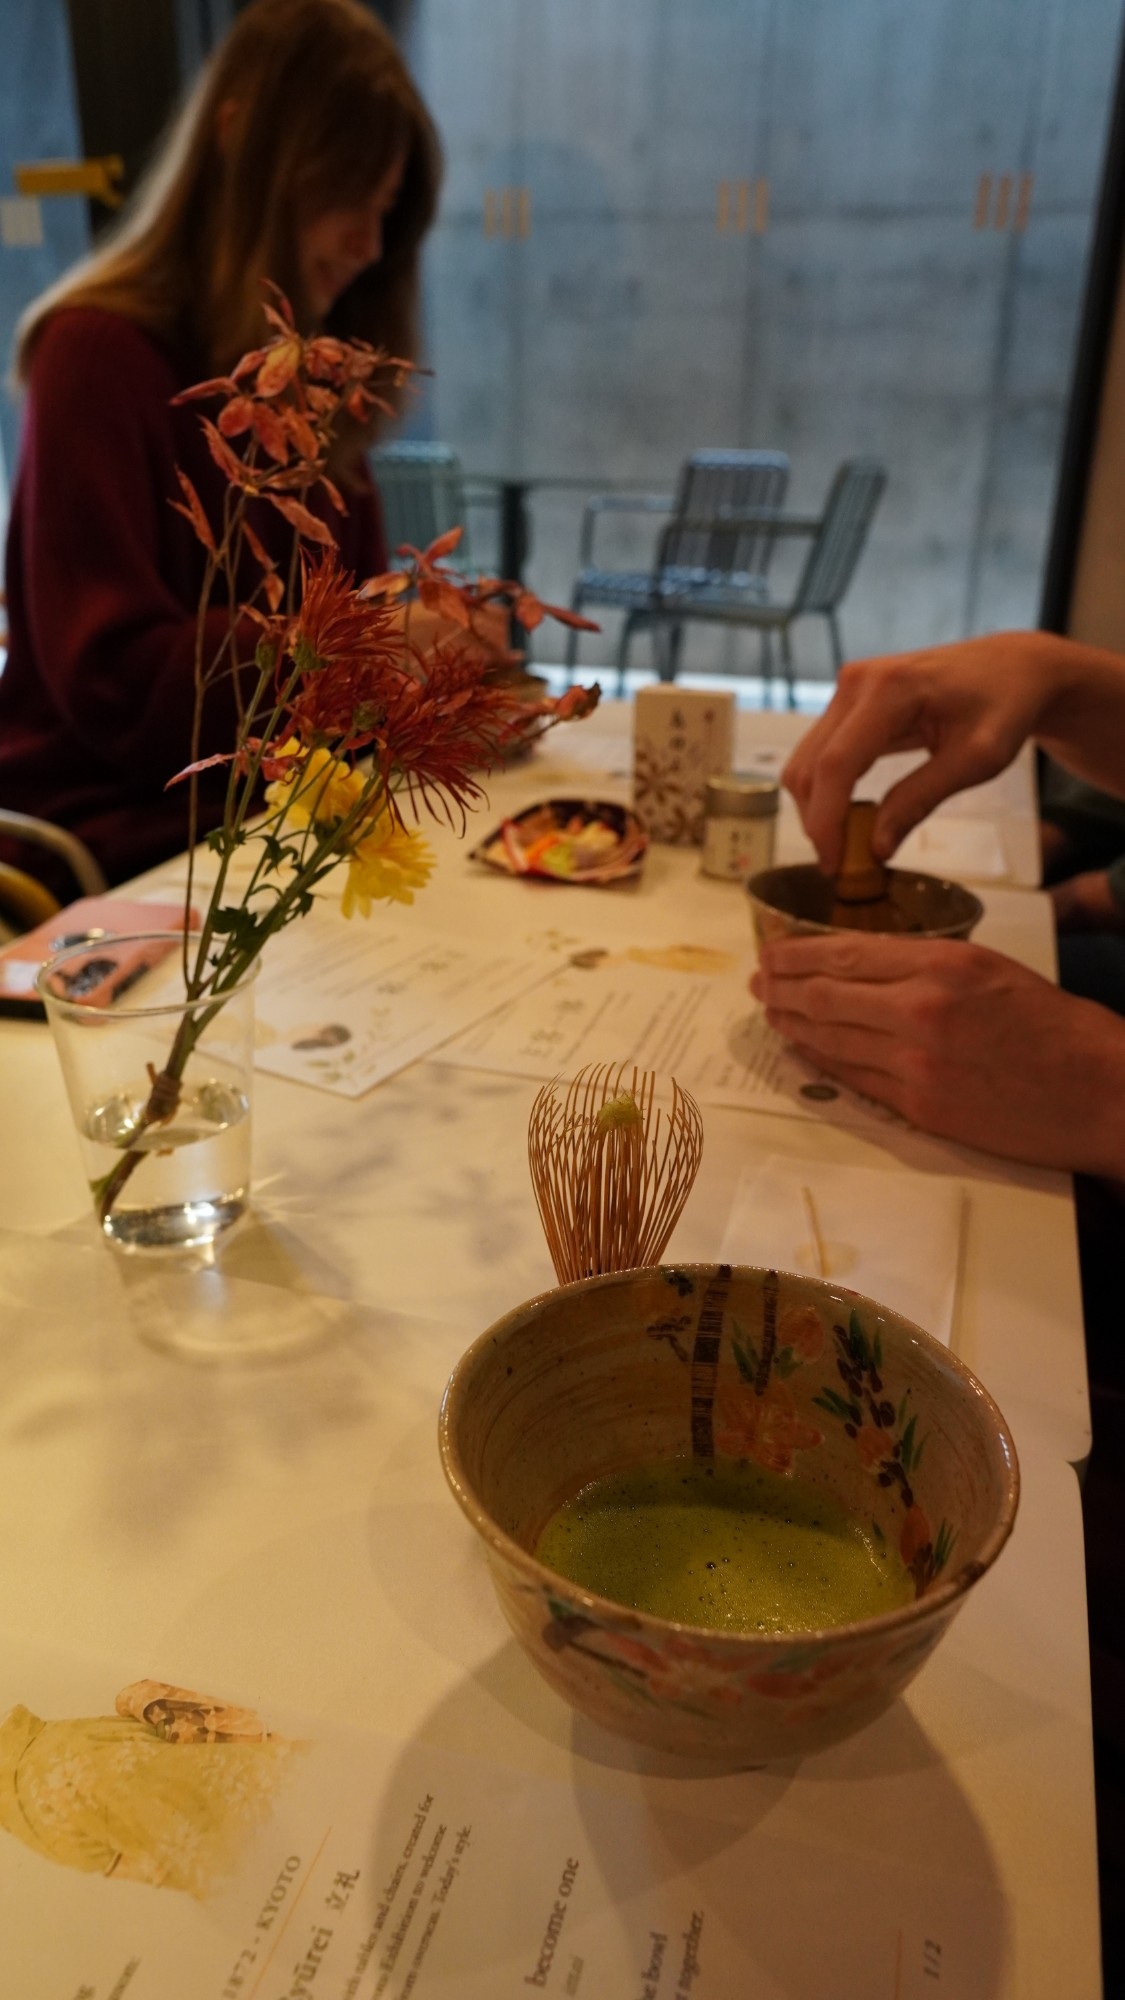
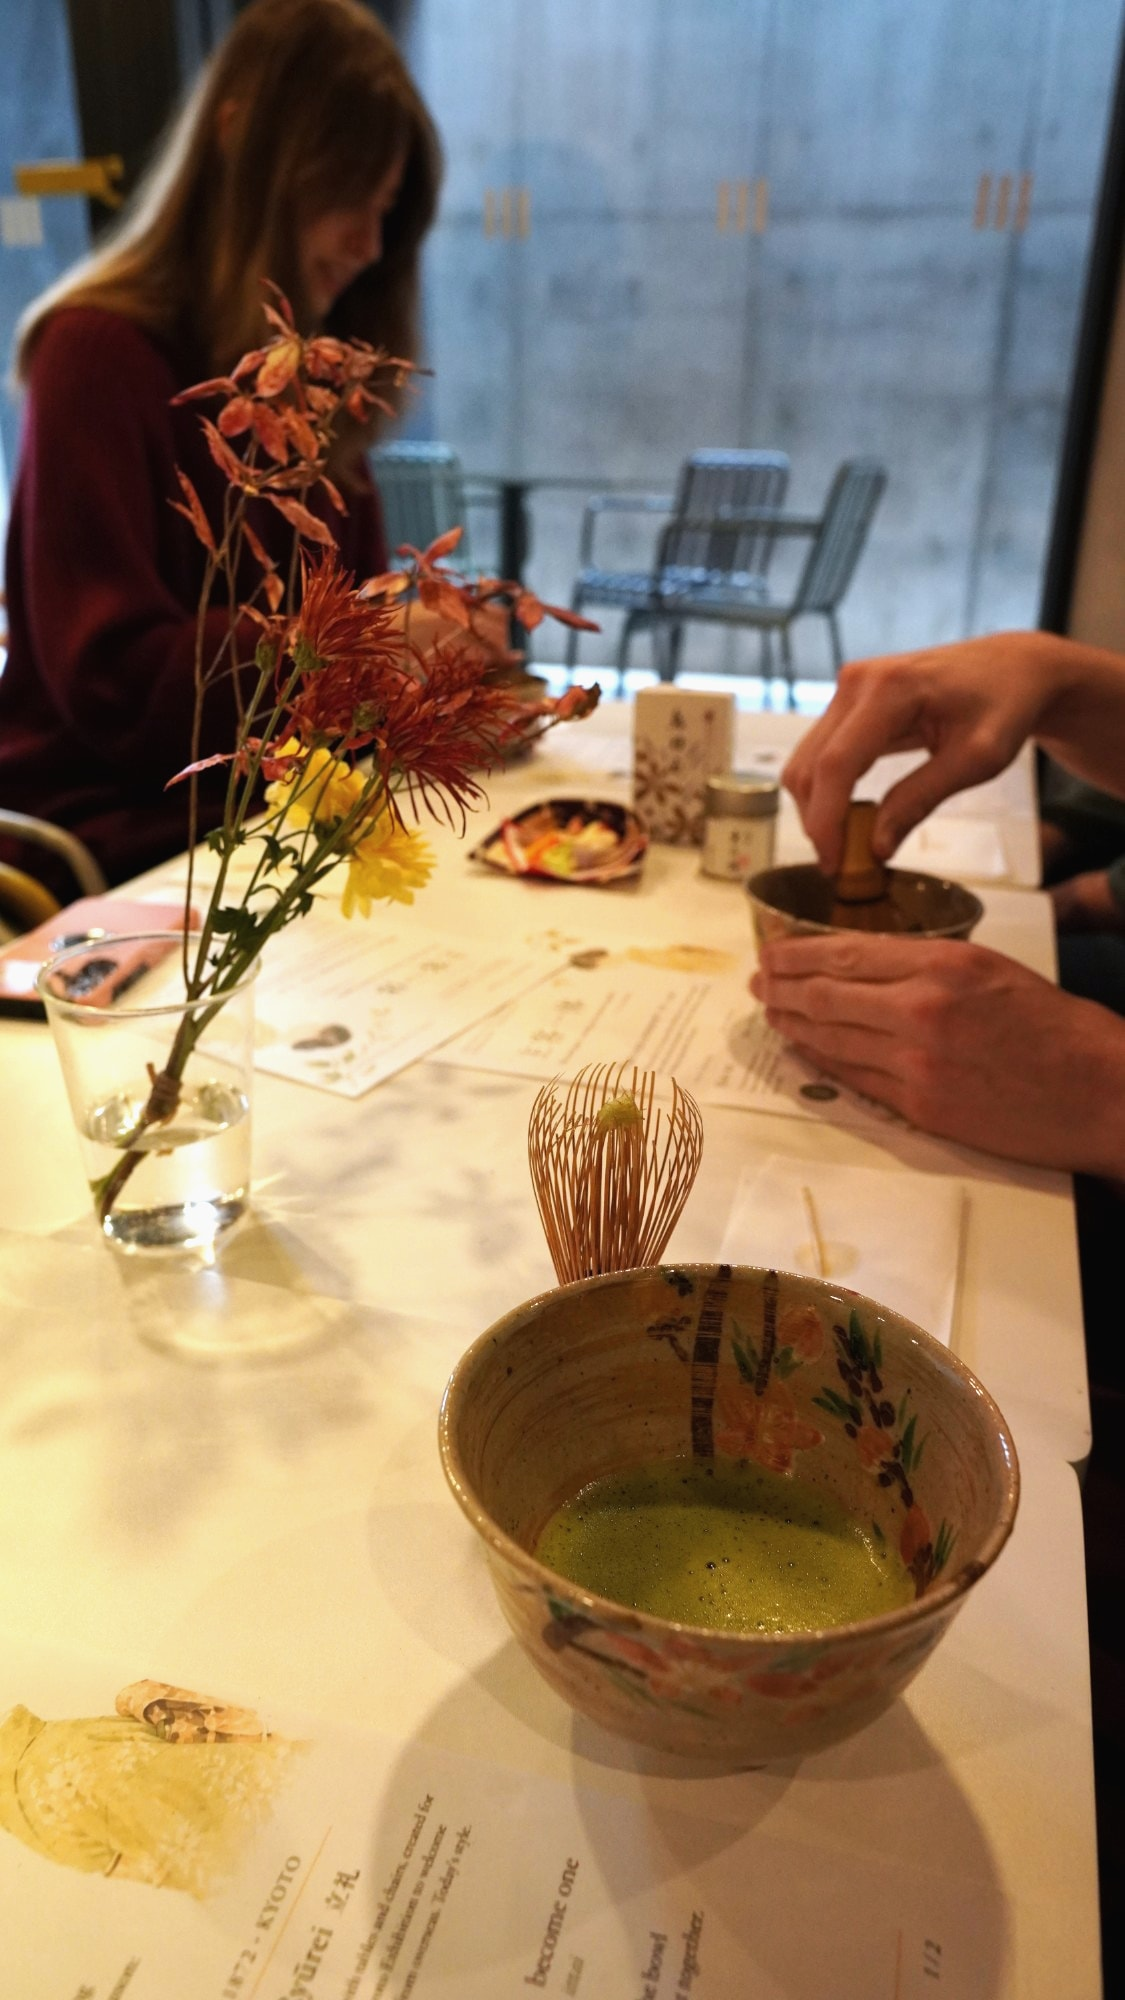
Off-site: Yokohama photos, colour-graded set, new flow and tea booth
- Photos from Hakuun-tei (Yokohama JC) as hero, card and gallery
- All off-site photos colour-graded to one warm, soft look with
  scripts/grade-photos.mjs (originals kept in photos/offsite)
- Session flow: set-up, welcome, lecture, temae, sweets, whisking,
  photos, clearing away; set-up and clearing take at least an hour
- New "tea booth" format for events where visitors come and go
- U Share card now uses the talk photo

diff --git a/src/i18n/offsite.ts b/src/i18n/offsite.ts
@@ -16,11 +16,11 @@ const en = {
     places: ["Homes", "Hotels & ryokan", "Company training", "Universities", "Events & outdoors"],
     primary: "Ask about a session",
     secondary: "What we can do",
-    photoAlt: "The host introducing tea ceremony at a U Share workshop",
+    photoAlt: "Guests at tables in a tatami hall watching the host prepare tea, Hakuun-tei",
   },
   formats: {
     eyebrow: "What we can do",
-    title: "Three ways to bring tea",
+    title: "Four ways to bring tea",
     lead: "Timing and content are arranged around your group, for up to about 20 people. Sessions can be held in English or Japanese.",
     items: [
       {
@@ -40,6 +40,12 @@ const en = {
         ja: "抹茶の飲み比べ",
         body: "Three grades of matcha tasted side by side, with a tasting card to note aroma, sweetness and finish.",
         fit: "Smaller groups, hotel guests",
+      },
+      {
+        name: "Tea booth",
+        ja: "お茶のブース",
+        body: "For events where people come and go. Visitors drop by, watch the host and enjoy a bowl at their own pace.",
+        fit: "Events with a flow of visitors",
       },
     ],
   },
@@ -72,7 +78,7 @@ const en = {
         title: "Tea ceremony workshop",
         tags: ["Ryūrei (tables & chairs)", "20 people"],
         body: "A hands-on workshop at tables and chairs for 20 participants.",
-        photo: "",
+        photo: "yokohama",
       },
       {
         date: "Dec 2024",
@@ -93,17 +99,18 @@ const en = {
   },
   flow: {
     eyebrow: "On the day",
-    title: "A workshop, step by step",
-    note: "An example of a 60-minute ryūrei workshop. We adjust it to your time and group.",
+    title: "How a session runs",
+    note: "A typical flow. Set-up and clearing away take at least an hour, so please allow time before and after. For events where people come and go, we can also run a tea booth instead.",
     steps: [
-      { min: "−30", title: "Set-up", body: "We arrive early to set out the tools, boil water and arrange the tables." },
-      { min: "5", title: "Welcome", body: "Introductions and a short answer to “what is tea ceremony?”" },
-      { min: "10", title: "Demonstration", body: "One bowl prepared in silence. Guests watch, then share what they noticed." },
-      { min: "10", title: "How to make and receive tea", body: "What each gesture means, and how to whisk a bowl of matcha." },
-      { min: "20", title: "Make tea for each other", body: "In pairs, guests take turns as host and guest. We go round and help." },
-      { min: "10", title: "Sharing and close", body: "A few impressions from the group, and a closing word." },
+      { title: "Set-up", body: "We arrive early to set out the tools, boil water and arrange the space." },
+      { title: "Welcome", body: "Introductions and a word about the day." },
+      { title: "Lecture", body: "A short, friendly talk on the history and spirit of tea." },
+      { title: "Temae", body: "The host prepares tea in the traditional manner while guests watch." },
+      { title: "Sweets", body: "Guests enjoy a traditional Japanese sweet before their tea." },
+      { title: "Whisk your own matcha", body: "Everyone makes a bowl of matcha themselves, with the host's help." },
+      { title: "Photos", body: "Time for photos with the tools, the room and each other." },
+      { title: "Clearing away", body: "We pack up and leave the space as we found it." },
     ],
-    minutes: "min",
   },
   terms: {
     eyebrow: "Practical details",
@@ -193,11 +200,11 @@ const ja: OffsiteCopy = {
     places: ["ご自宅", "ホテル・旅館", "会社の研修", "大学", "イベント・屋外"],
     primary: "出張を相談する",
     secondary: "できること",
-    photoAlt: "U Share のワークショップで茶道について話す亭主",
+    photoAlt: "白雲亭の広間で、立礼の席からお点前を見る参加者",
   },
   formats: {
     eyebrow: "出張でできること",
-    title: "三つのかたち",
+    title: "四つのかたち",
     lead: "時間や内容は、ご依頼に合わせて柔軟に組み立てます（20名程度まで）。英語・日本語のどちらでも進行できます。",
     items: [
       {
@@ -217,6 +224,12 @@ const ja: OffsiteCopy = {
         ja: "Matcha tasting",
         body: "三種の抹茶を飲み比べ。香り・甘み・余韻を記すテイスティングカードつき。",
         fit: "少人数・ホテルのお客様に",
+      },
+      {
+        name: "お茶のブース",
+        ja: "Tea booth",
+        body: "人の出入りが自由なイベントに。立ち寄った方がお点前を見て、それぞれのペースで一服を楽しめます。",
+        fit: "人の流れがあるイベントに",
       },
     ],
   },
@@ -249,7 +262,7 @@ const ja: OffsiteCopy = {
         title: "茶道体験ワークショップ",
         tags: ["立礼（机と椅子）", "20名"],
         body: "テーブルと椅子でおこなう体験型のワークショップ。20名の方にご参加いただきました。",
-        photo: "",
+        photo: "yokohama",
       },
       {
         date: "2024年12月",
@@ -270,17 +283,18 @@ const ja: OffsiteCopy = {
   },
   flow: {
     eyebrow: "当日の流れ",
-    title: "ワークショップの進め方",
-    note: "約60分の立礼ワークショップの例です。時間や人数に合わせて調整します。",
+    title: "出張の進め方",
+    note: "一般的な流れです。準備と片付けには最低1時間かかりますので、前後のお時間をご確保ください。人の出入りが自由なイベントでは、ブース形式での出展もできます。",
     steps: [
-      { min: "−30", title: "準備", body: "開始前に伺い、道具の配置、お湯の用意、机の並べ替えをします。" },
-      { min: "5", title: "ご挨拶", body: "自己紹介と「茶道とは」のお話。" },
-      { min: "10", title: "お点前", body: "言葉を使わずに一碗を点てます。気づいたことを皆さんから伺います。" },
-      { min: "10", title: "点て方・いただき方", body: "所作の意味と、抹茶の点て方をご説明します。" },
-      { min: "20", title: "二人一組で点て合い", body: "亭主と客を交代しながら一服を点て合います。各ペアを回ってお手伝いします。" },
-      { min: "10", title: "感想と締め", body: "何人かに感想を伺い、締めのご挨拶。" },
+      { title: "準備", body: "早めに伺い、道具の配置、お湯の用意、会場の準備をします。" },
+      { title: "ご挨拶", body: "自己紹介と、この日についてのご挨拶。" },
+      { title: "レクチャー", body: "茶道の歴史と心について、短くわかりやすくお話しします。" },
+      { title: "お点前", body: "亭主がお点前でお茶を点てるところをご覧いただきます。" },
+      { title: "お菓子", body: "お茶の前に、和菓子を召し上がっていただきます。" },
+      { title: "抹茶点て体験", body: "亭主がそばでご案内しながら、皆さまご自身で一服を点てます。" },
+      { title: "写真撮影", body: "道具や会場と一緒に、記念の写真をどうぞ。" },
+      { title: "片付け", body: "道具を片付け、会場を元の状態に戻します。" },
     ],
-    minutes: "分",
   },
   terms: {
     eyebrow: "ご依頼の前に",

diff --git a/README.md b/README.md
@@ -41,3 +41,11 @@ npm run build    # dist/ に出力
 ## 公開
 
 `main` に push すると GitHub Actions（`.github/workflows/deploy.yml`）がビルドして GitHub Pages に公開します。
+
+## 出張ページの写真
+
+出張ページの写真は色味をそろえてから使っています。元の写真を `photos/offsite/` に置いて次を実行すると、補正済みの写真が `src/assets/images/offsite/` にできます。
+
+```bash
+node scripts/grade-photos.mjs
+```
